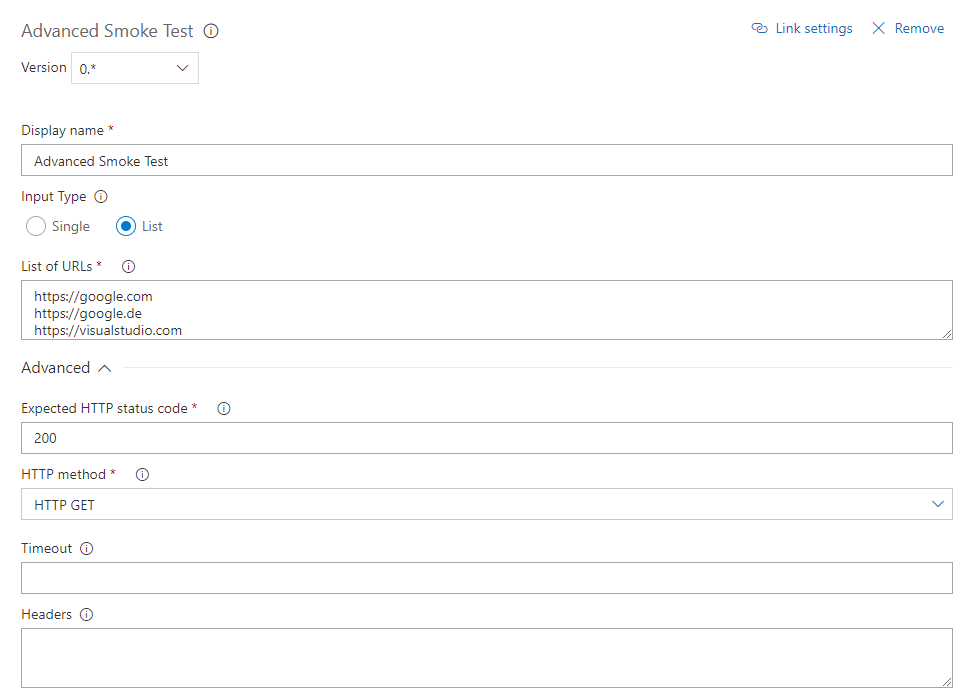
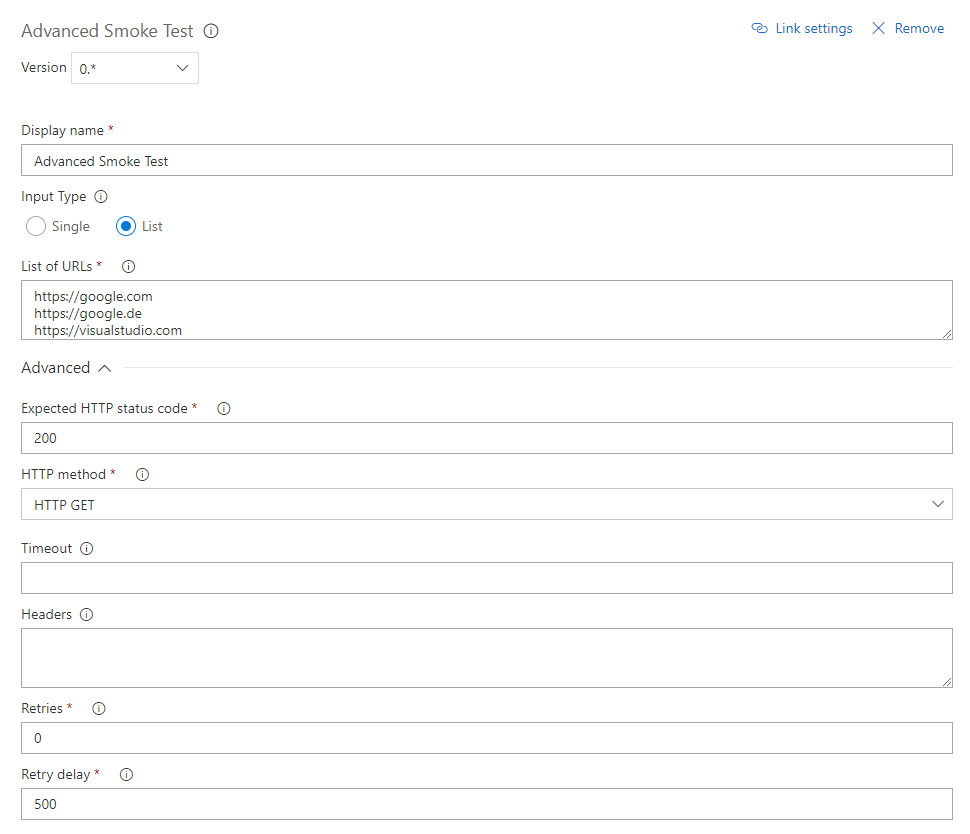
add retry and retryDelay options

diff --git a/task/src/task.ts b/task/src/task.ts
@@ -1,5 +1,6 @@
 import * as tl from 'vsts-task-lib';
 import * as smoke from "advanced-smoke";
+import * as delay from "delay";
 
 async function run()
 {
@@ -52,36 +53,53 @@ async function run()
             });
     }
 
-    const retryTimes = parseInt(tl.getInput("retryTimes", false) || "0", 10);
-    const retryDelay = parseInt(tl.getInput("retryDelay", false) || "0", 10);
-
-
-    let error = false;
+    const retryCount = parseInt(tl.getInput("retryCount", true), 10);
+    const retryDelay = parseInt(tl.getInput("retryDelay", true), 10);
 
     const tlLogger = {
         log: (...args) => { console.log(...args); },
-        error: (...args) => { tl.error(args.join(" ")); }
+        error: (...args) => { tl.warning(args.join(" ")); }
     }
 
-    for (let url of urls)
+    let error = false;
+    let attempts = 0;
+
+
+    console.log(retryCount > 0 ? `Starting tests, will retry ${retryCount} times with a delay of ${retryDelay}ms` : "Starting tests");
+
+    do
     {
-        try
+        if (attempts > 0)
         {
-            error = !await smoke.smokeTest({
-                url,
-                headers,
-                method: method.toUpperCase(),
-                status,
-                timeout,
-                resolveWithFullResponse: true
-            }, tlLogger) || error;
+            console.log("==============================================================================");
+            console.log(`retry ${attempts} of ${retryCount}, delaying ${retryDelay}ms.`);
+            await delay(retryDelay);
         }
-        catch (e)
+
+        attempts++;
+        error = false;
+
+        for (let url of urls)
         {
-            tl.error(e);
-            error = true;
+            try
+            {
+                error = !await smoke.smokeTest({
+                    url,
+                    headers,
+                    method: method.toUpperCase(),
+                    status,
+                    timeout,
+                    resolveWithFullResponse: true
+                }, tlLogger) || error;
+            }
+            catch (e)
+            {
+                tl.warning(e);
+                error = true;
+            }
         }
     }
+    while (error && attempts <= retryCount);
 
     tl.setResult(error ? tl.TaskResult.Failed : tl.TaskResult.Succeeded, error ? "Smoke test(s) failed" : "Smoke test(s) succeeded");
 }

diff --git a/README.md b/README.md
@@ -1,31 +1,39 @@
 # Advanced Smoke Test
 Build and release task for executing smoke tests against a single or multiple URLs.
 
-# Single URL
+This task is using the [advanced-smoke npm package](https://www.npmjs.com/package/advanced-smoke) ([GitHub](https://github.com/petersendev/node-advanced-smoke)) which also offers a CLI.
+
+## Single URL
 ![single-url](images/screenshots/task_single.png)
 
-# Multiple URLs
+## Multiple URLs
 ![multiple-url](images/screenshots/task_list.png)
 For multiple URLs a test for will be executed, if any of the tests fail, the task will fail.
 
-# Advanced Options
+## Advanced Options
 
-## Expected HTTP status code
+### Expected HTTP status code
 The HTTP status code which will be validated. If the server does not respond with the specified status code, the test will fail.
 
-## HTTP method
+### HTTP method
 The HTTP method which will be used for all requests.
 
-## Timeout
+### Timeout
 Timeout in milliseconds for the server to respond. If no timeout is specified, the default from the request module (and in some cases from the OS) will be used.
 
-## Headers
+### Headers
 List of headers which will be sent with the request(s).
 One per line, in the following format:
 ```
 MyHeader=my header value
 MySecondHeader=2nd
 ```
+
+### Retries
+Number of retries, which will be executed in case of any errors during the test(s). Useful if used directly after deployment to handle warmup.
+
+### Retry delay
+Delay (in milliseconds) between retries.
 
 ## Credits
 "[Smoke](https://thenounproject.com/term/smoke/952776/)" icon by Beau Wingfield from [from the Noun Project](http://thenounproject.com/).
